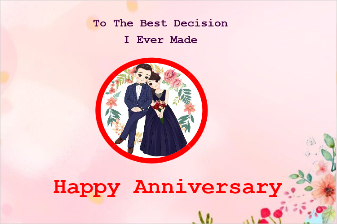
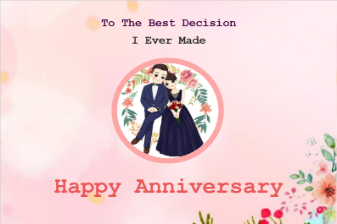
Changes

diff --git a/resources/js/tools/greeting-cards.js b/resources/js/tools/greeting-cards.js
@@ -240,6 +240,8 @@ $(document).ready(function() {
 		var color = $('#main-canvas-border-color').val();
 		var width = $('#main-canvas-border-width').val();
 		var style = $('#main-canvas-border-style').val();
+		var card_height = $('#main-canvas-height').val();
+		var card_width = $('#main-canvas-width').val();
 		// Remove any existing border style first to avoid conflicts
 		$('#card-canvas').css({
 			'border-color': '',
@@ -253,6 +255,8 @@ $(document).ready(function() {
 		} else {
 			$('#card-canvas').css('border', 'none');
 		}
+		$('#card-canvas').css('height', card_height);
+		$('#card-canvas').css('width', card_width);
 	}
 
 	$('#main-canvas-border-color, #main-canvas-border-width, #main-canvas-border-style').on('input change', function() {

diff --git a/database/seeders/CardTemplatesTableSeeder.php b/database/seeders/CardTemplatesTableSeeder.php
@@ -736,8 +736,8 @@ class CardTemplatesTableSeeder extends Seeder
                         ],                                                                                     
                     ]
                 ]),
-                'seo_title' => "{title} - Free Editable Celebration Card Template | ToolHubSpot",
-                "seo_description" => "Explore beautiful anniversary wishes & greeting cards — heartfelt messages, romantic lines & creative quotes perfect for every couple's milestone celebration.",
+                "seo_title" => "{title} - Free Editable Anniversary Card | ToolHubSpot",
+                "seo_description" => "Explore beautiful anniversary wishes & greeting cards - heartfelt messages, romantic lines & creative quotes perfect for every couple's milestone celebration.",
                 "seo_keywords" => "anniversary wishes,anniversary greeting cards, romantic anniversary messages,anniversary quotes",
                 'created_at' => now(),
                 'updated_at' => now(),
@@ -760,8 +760,8 @@ class CardTemplatesTableSeeder extends Seeder
                             'id' => 'title1',
                             'text' => 'Happy Anniversary',
                             'css' => json_encode([
-                                'desktop' => 'z-index: 20; left: 143px; top: 25px; color: rgb(218, 165, 32); font-weight: bold; font-family: "Dancing Script", sans-serif; font-size: 40px;',
-                                'mobile' => 'z-index: 20; left: 18%; top: 37px; color: rgb(218, 165, 32); font-weight: bold; font-family: "Dancing Script", sans-serif; font-size: 27px;'
+                                'desktop' => 'z-index: 20; width:100%; text-align: center; top: 25px; color: rgb(218, 165, 32); font-weight: bold; font-family: "Dancing Script", sans-serif; font-size: 40px;',
+                                'mobile' => 'z-index: 20; width:100%; text-align: center; top: 37px; color: rgb(218, 165, 32); font-weight: bold; font-family: "Dancing Script", sans-serif; font-size: 27px;'
                             ]),
                         ],
                         [
@@ -769,8 +769,8 @@ class CardTemplatesTableSeeder extends Seeder
                             'id' => 'title2',
                             'text' => 'I Love you more every year',
                             'css' => json_encode([
-                                'desktop' => 'z-index: 18; left: 30%; top: 323px; font-family: Pacifico, sans-serif; color: rgb(218, 165, 32);',
-                                'mobile' => 'z-index: 18; left: 26%; top: 323px; font-family: Pacifico, sans-serif; color: rgb(218, 165, 32);'
+                                'desktop' => 'z-index: 18; width:100%; text-align: center; top: 323px; font-family: Pacifico, sans-serif; color: rgb(218, 165, 32);',
+                                'mobile' => 'z-index: 18; width:100%; text-align: center; top: 323px; font-family: Pacifico, sans-serif; color: rgb(218, 165, 32);'
                             ]),
                         ],
                         [
@@ -784,8 +784,8 @@ class CardTemplatesTableSeeder extends Seeder
                         ],                                                                                   
                     ]
                 ]),
-                'seo_title' => "{title} - Free Editable Celebration Card Template | ToolHubSpot",
-                 "seo_description" => "Explore beautiful anniversary wishes & greeting cards — heartfelt messages, romantic lines & creative quotes perfect for every couple's milestone celebration.",
+                "seo_title" => "{title} - Free Editable Anniversary Card | ToolHubSpot",
+                "seo_description" => "Explore beautiful anniversary wishes & greeting cards - heartfelt messages, romantic lines & creative quotes perfect for every couple's milestone celebration.",
                 "seo_keywords" => "anniversary wishes,anniversary greeting cards, romantic anniversary messages,anniversary quotes",
                 'created_at' => now(),
                 'updated_at' => now(),
@@ -805,8 +805,8 @@ class CardTemplatesTableSeeder extends Seeder
                             'id' => 'title1',
                             'text' => 'To The Best Decision',
                             'css' => json_encode([
-                                'desktop' => 'z-index: 9; left: 153px; top: 20px; text-align: center; font-family: "Courier New", sans-serif; color: rgb(64, 0, 64); font-weight: bold;',
-                                'mobile' => 'z-index: 32; left: 6%; top: 21px; text-align: center; font-family: "Courier New", sans-serif; color: rgb(64, 0, 64); font-weight: bold;'
+                                'desktop' => 'z-index: 9; width:100%; text-align: center; top: 20px; text-align: center; font-family: "Courier New", sans-serif; color: rgb(64, 0, 64); font-weight: bold;',
+                                'mobile' => 'z-index: 32; width:100%; text-align: center; top: 21px; text-align: center; font-family: "Courier New", sans-serif; color: rgb(64, 0, 64); font-weight: bold;'
                             ]),
                         ],
                         [
@@ -814,8 +814,8 @@ class CardTemplatesTableSeeder extends Seeder
                             'id' => 'title3',
                             'text' => 'I Ever Made',
                             'css' => json_encode([
-                                'desktop' => 'z-index: 15; left: 204px; top: 51px; font-family: "Courier New", sans-serif; font-weight: bold;',
-                                'mobile' => 'z-index: 1; left: 23%; top: 51px; font-family: "Courier New", sans-serif; font-weight: bold;'
+                                'desktop' => 'z-index: 15; width:100%; text-align: center; top: 51px; font-family: "Courier New", sans-serif; font-weight: bold;',
+                                'mobile' => 'z-index: 1; width:100%; text-align: center; top: 51px; font-family: "Courier New", sans-serif; font-weight: bold;'
                             ]),
                         ],
                         [
@@ -823,8 +823,8 @@ class CardTemplatesTableSeeder extends Seeder
                             'id' => 'title2',
                             'text' => 'Happy Anniversary',
                             'css' => json_encode([
-                                'desktop' => 'z-index: 6; left: 85px; top: 297px; color: rgb(234, 87, 87); font-weight: bold; font-family: "Courier New", sans-serif; font-size: 40px;',
-                                'mobile' => 'z-index: 6; left: 16%; top: 297px; color: rgb(234, 87, 87); font-weight: bold; font-family: "Courier New", sans-serif; font-size: 32px;'
+                                'desktop' => 'z-index: 6; top: 297px; color: rgb(234, 87, 87); font-weight: bold; font-family: "Courier New", sans-serif; font-size: 40px; width:100%; text-align: center;',
+                                'mobile' => 'z-index: 6; top: 297px; color: rgb(234, 87, 87); font-weight: bold; font-family: "Courier New", sans-serif; font-size: 32px; width:100%; text-align: center;'
                             ]),
                         ],
                         [
@@ -832,15 +832,61 @@ class CardTemplatesTableSeeder extends Seeder
                             'id' => 'img1',
                             'src' => '/images/greeting-cards/element/couple-2.jpg',
                             'css' => json_encode([
-                                'desktop' => 'position: absolute; top: 102px; left: 169px; width: 200px; height: 189px; border: 10px ridge rgb(252, 166, 166); cursor: move; z-index: 31; border-radius: 50%;',
+                                'desktop' => 'position: absolute; top: 102px; left: 33%; width: 200px; height: 189px; border: 10px ridge rgb(252, 166, 166); cursor: move; z-index: 31; border-radius: 50%;',
                                 'mobile' => 'position: absolute; top: 102px; left: 17%; width: 200px; height: 189px; border: 10px ridge rgb(252, 166, 166); cursor: move; z-index: 31; border-radius: 50%;'
                             ]),
                         ],                                                                                      
                     ]
                 ]),
-                'seo_title' => "{title} - Free Editable Celebration Card Template | ToolHubSpot",
-                 "seo_description" => "Explore beautiful anniversary wishes & greeting cards — heartfelt messages, romantic lines & creative quotes perfect for every couple's milestone celebration.",
+                "seo_title" => "{title} - Free Editable Anniversary Card | ToolHubSpot",
+                "seo_description" => "Explore beautiful anniversary wishes & greeting cards - heartfelt messages, romantic lines & creative quotes perfect for every couple's milestone celebration.",
                 "seo_keywords" => "anniversary wishes,anniversary greeting cards, romantic anniversary messages,anniversary quotes",
+                'created_at' => now(),
+                'updated_at' => now(),
+            ],
+            [
+                'title' => 'Born to be mine',
+                'slug' => 'born-to-be-mine',
+                'thumbnail' => '/images/greeting-cards/born-to-be-mine-thumb.png',
+                'category' => 'Love, Valentine Day, Anniversary, Wedding',
+                'description' => 'Anniversary',
+                'template_data' => json_encode([
+                    'bgColor' => '',
+                    "main-card-height" => "500",
+                    'bgImage' => "/images/greeting-cards/backgrounds/love-4.jpg",
+                    'elements' => [
+                        [
+                            'type' => 'text',
+                            'id' => 'title1',
+                            'text' => "From the very first moment, it feels like destiny whispered the truth, you were born to be mine, and I'll spend forever proving it.",
+                            'css' => json_encode([
+                                'desktop' => 'z-index: 18; width: 100%; text-align: center; top: 441px;font-family: &quot;Times New Roman&quot;, sans-serif;color: rgb(238, 104, 104); font-size: 15px;',
+                                'mobile' => 'z-index: 5;width: 100%;text-align: center;top: 425px;color: rgb(238, 104, 104);font-size: 14px;'
+                            ]),
+                        ],                        
+                        [
+                            'type' => 'text',
+                            'id' => 'title2',
+                            'text' => 'Happy Anniversary',
+                            'css' => json_encode([
+                                'desktop' => 'z-index: 6; top: 11px; color: rgb(234, 87, 87); font-weight: bold; font-family: Lobster, sans-serif; font-size: 40px; width:100%; text-align: center;',
+                                'mobile' => 'z-index: 6; top: 2%; color: rgb(234, 87, 87); font-weight: bold; font-family: Lobster, sans-serif; font-size: 28px; width:100%; text-align: center;'
+                            ]),
+                        ],                        
+                        [
+                            'type' => 'image',
+                            'id' => 'img1',
+                            'src' => '/images/greeting-cards/element/couple-2.jpg',
+                            'css' => json_encode([
+                                'desktop' => 'position: absolute; top: 157px; left: 202px; width: 185.986px; height: 175.84px; border: 10px ridge rgb(252, 166, 166); cursor: move; z-index: 21; border-radius: 50%;',
+                                'mobile' => 'position: absolute; top: 167px; left: 57px; width: 185.986px; height: 175.84px; border: 10px ridge rgb(252, 166, 166); cursor: move; z-index: 3; border-radius: 50%;'
+                            ]),
+                        ],                                                                                      
+                    ]
+                ]),
+                "seo_title" => "Born to Be Mine Anniversary Greeting Card | Romantic Love Card Online",
+                "seo_description" => "Celebrate love with the Born to Be Mine anniversary greeting card. A perfect romantic card to express your forever bond - ideal for anniversaries, couples, and special occasions.",
+                "seo_keywords" => "born to be mine card, anniversary greeting card, romantic love card, online greeting cards, love anniversary card, forever love greeting, digital greeting card, couples anniversary card",
                 'created_at' => now(),
                 'updated_at' => now(),
             ],

diff --git a/resources/views/tools/greeting-cards.blade.php b/resources/views/tools/greeting-cards.blade.php
@@ -138,7 +138,7 @@
 								<label for="main-canvas-height" class="form-label">Card Height</label>
 								<div class="input-group-custom">
 									<div class="input-wrapper">
-										<input type="number" class="form-control custom-input" id="main-canvas-height" value="400" min="100" max="1200">
+										<input type="number" class="form-control custom-input" id="main-canvas-height" value="{{$card->template_data['main-card-height']??400}}" min="100" max="1200">
 										<span class="input-suffix mr-4">px</span>
 									</div>
 								</div>
@@ -147,7 +147,7 @@
 								<label for="main-canvas-width" class="form-label">Card Width</label>
 								<div class="input-group-custom">
 									<div class="input-wrapper">
-										<input type="number" class="form-control custom-input" id="main-canvas-width" value="600" min="100" max="1200">
+										<input type="number" class="form-control custom-input" id="main-canvas-width" value="{{$card->template_data['main-card-width']??600}}" min="100" max="1200">
 										<span class="input-suffix mr-4">px</span>
 									</div>
 								</div>
